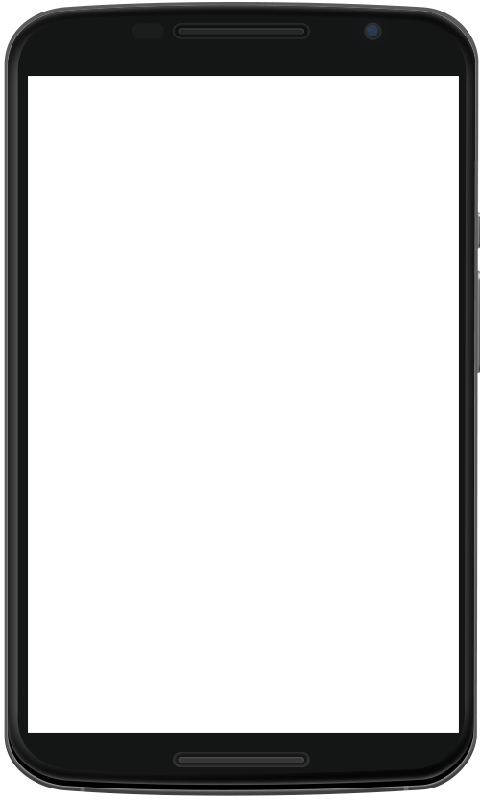
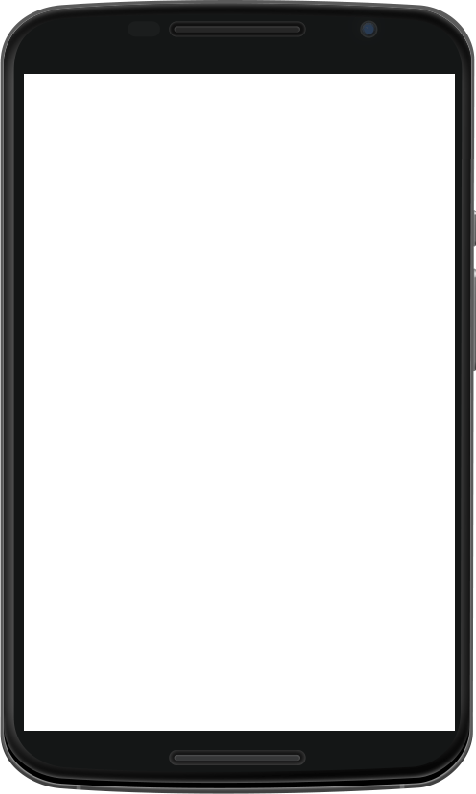
Include propertiesHelper and minor adjustments

Changed region(s): [[0.0, 0.0, 1.0, 1.0], [0.9412, 0.0907, 0.9706, 0.1209]]

diff --git a/src/components/ai_components/VerticalArrangement.js b/src/components/ai_components/VerticalArrangement.js
@@ -1,4 +1,9 @@
 import React from 'react';
+import {
+  measureValue,
+  alignHorizontalValue,
+  alignVerticalValue,
+} from '../../helpers/propertiesHelper';
 
 export default function VerticalArrangement({
   componentName,
@@ -16,16 +21,27 @@ export default function VerticalArrangement({
 
   let height = '';
   const componentHeight = componentProperties.find(
-    (prop) => prop.propertyName === 'BackgroundColor'
+    (prop) => prop.propertyName === 'Height'
   );
 
   if (componentHeight !== undefined) {
-    height = componentHeight.propertyValue;
+    height = measureValue(componentHeight.propertyValue);
   }
+
+  let width = '';
+  const componentWidth = componentProperties.find(
+    (prop) => prop.propertyName === 'Width'
+  );
+
+  if (componentWidth !== undefined) {
+    width = measureValue(componentWidth.propertyValue);
+  }
+
+  console.log(width);
 
   return (
     <div
-      style={{ backgroundColor: `${bgColor}`, height: `${height}px` }}
+      style={{ backgroundColor: `${bgColor}`, height: `${height}` }}
       id={componentName}>
       {children}
     </div>

diff --git a/src/helpers/propertiesHelper.js b/src/helpers/propertiesHelper.js
@@ -1,0 +1,49 @@
+function measureValue(value) {
+  let measure = '';
+  if (value === '-2') {
+    measure = '100%';
+  } else if (value > 0) {
+    measure = value + 'px';
+  } else {
+    measure = Math.abs(value) - 1000;
+  }
+  return measure;
+}
+
+function alignHorizontalValue(value) {
+  let alignHorizontal = '';
+  switch (value) {
+    case 1:
+      alignHorizontal = 'flex-start';
+      break;
+    case 2:
+      alignHorizontal = 'flex-end';
+      break;
+    case 3:
+      alignHorizontal = 'center';
+      break;
+    default:
+      break;
+  }
+  return alignHorizontal;
+}
+
+function alignVerticalValue(value) {
+  let alignVertical = '';
+  switch (value) {
+    case 1:
+      alignVertical = 'flex-start';
+      break;
+    case 2:
+      alignVertical = 'center';
+      break;
+    case 3:
+      alignVertical = 'flex-end';
+      break;
+    default:
+      break;
+  }
+  return alignVertical;
+}
+
+export { measureValue, alignHorizontalValue, alignVerticalValue };

diff --git a/src/components/ai_components/Button.js b/src/components/ai_components/Button.js
@@ -2,18 +2,18 @@ import React from 'react';
 
 export default function Button({ componentName, componentProperties }) {
   /* Get default value from properties */
-  let defaultValue = '';
-  const componentContent = componentProperties.find(
+  let textValue = '';
+  const componentTextValue = componentProperties.find(
     (prop) => prop.propertyName === 'Text'
   );
 
-  if (componentContent !== undefined) {
-    defaultValue = componentContent.propertyValue;
+  if (componentTextValue !== undefined) {
+    textValue = componentTextValue.propertyValue;
   }
 
   return (
     <div>
-      <button id={componentName}>{defaultValue}</button>
+      <button id={componentName}>{textValue}</button>
     </div>
   );
 }

diff --git a/src/components/page/main.module.css b/src/components/page/main.module.css
@@ -20,10 +20,10 @@
   display: flex;
   justify-content: center;
   margin: 10px 25% 10px 25%;
-  min-width: 480px;
-  max-width: 480px;
-  min-height: 800px;
-  max-height: 800px;
+  min-width: 476px;
+  max-width: 476px;
+  min-height: 794px;
+  max-height: 794px;
   position: relative;
   z-index: 8;
 }
@@ -31,13 +31,17 @@
 .phoneArea {
   position: absolute;
   z-index: 9;
-  left: 28px;
-  top: 76px;
+  left: 24px;
+  top: 73px;
   min-width: 432px;
   max-width: 432px;
   min-height: 658px;
   max-height: 658px;
   overflow: auto;
+}
+
+.deviceImage {
+  z-index: 10;
 }
 
 .phoneArea::-webkit-scrollbar-track

diff --git a/src/components/page/Main.js b/src/components/page/Main.js
@@ -14,7 +14,7 @@ export default function Main() {
           <ScreenTitle />
           <Elements components={components} />
         </div>
-        <img src={device} alt="device" />
+        <img src={device} alt="device" className={css.deviceImage} />
       </div>
     </div>
   );

diff --git a/src/components/page/header.module.css b/src/components/page/header.module.css
@@ -15,7 +15,7 @@
   width: 100%;
   margin: 0;
   position: fixed;
-  z-index: 10;
+  z-index: 100;
 }
 
 /* Add style to image element */
